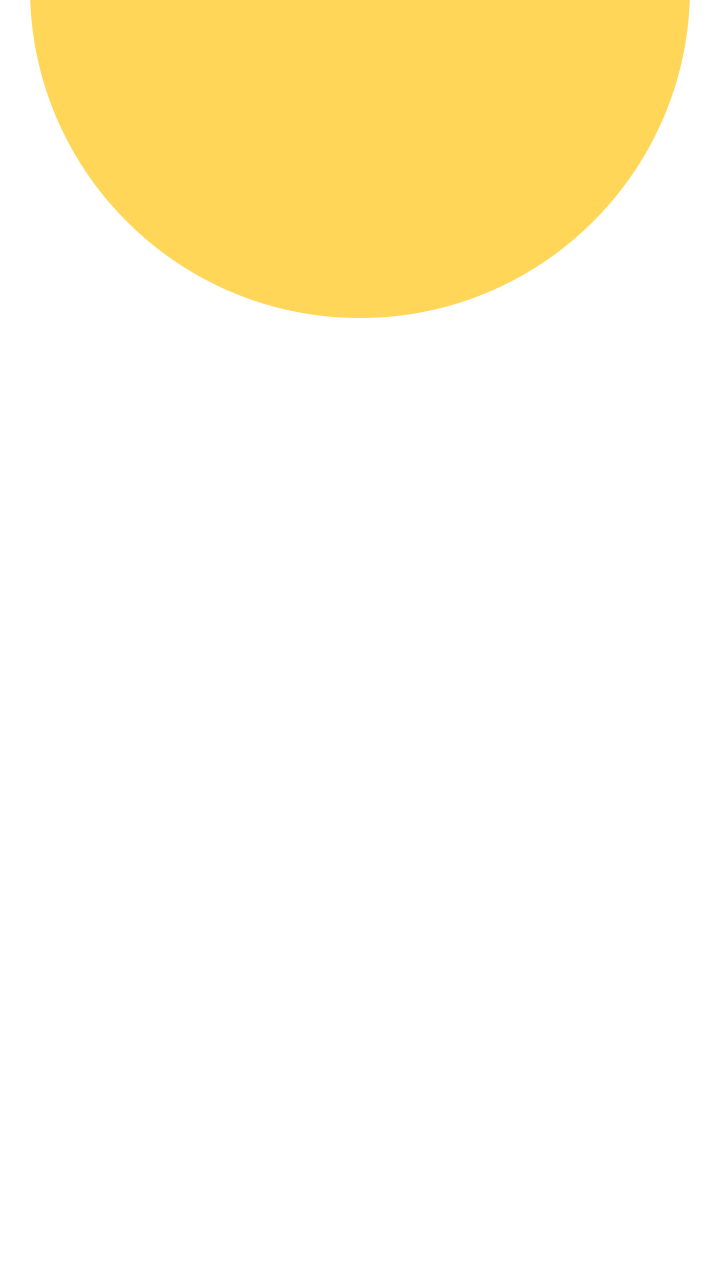
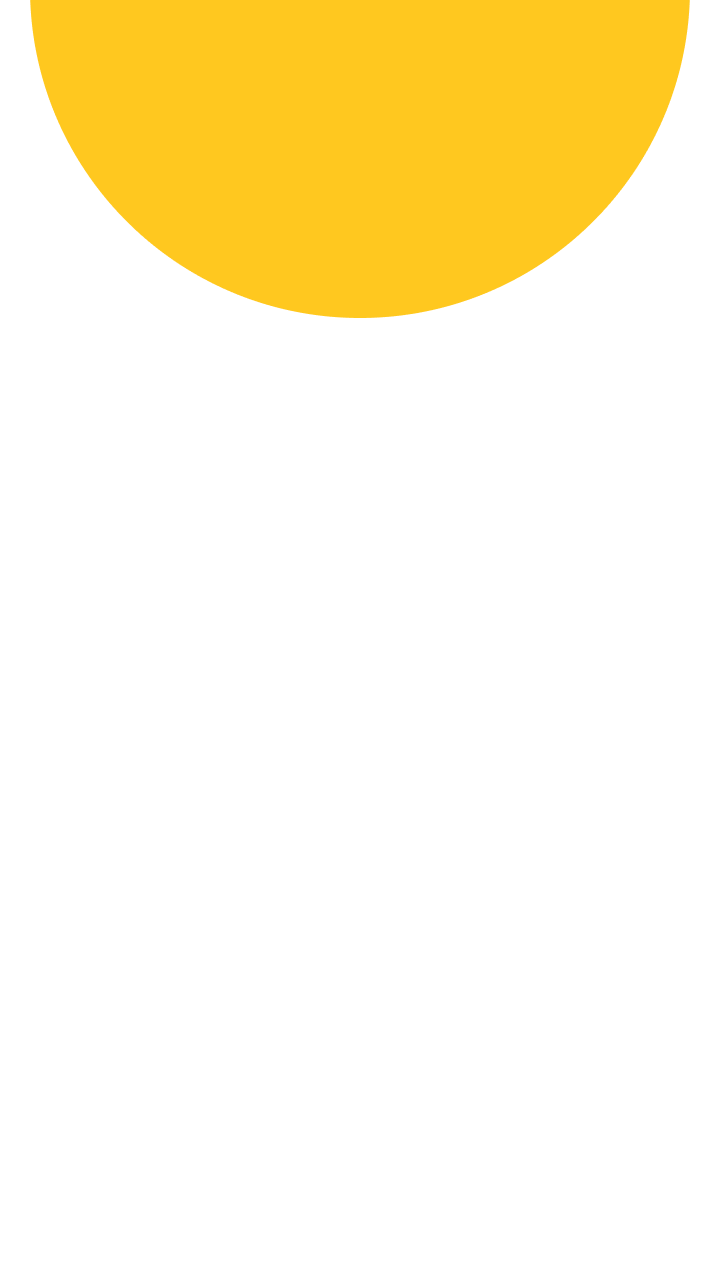
committed successfully

Changed region(s): [[0.0306, 0.0, 0.9778, 0.25]]

diff --git a/lib/loginpage.dart b/lib/loginpage.dart
@@ -12,8 +12,6 @@ class _loginpageState extends State<loginpage> {
   Widget build(BuildContext context) {
     // TODO: implement build
     return Scaffold(
-      // backgroundColor: Color(0xFFFFF6EB),
-
       body: DecoratedBox(
         decoration: BoxDecoration(
           image: DecorationImage(image: AssetImage("assets/images/img.png"),fit: BoxFit.cover),
@@ -75,7 +73,7 @@ class _loginpageState extends State<loginpage> {
                       Container(
                         width: 300,
                         decoration: BoxDecoration(
-                            color: Color(0xFFFFD658),
+                            color: Color(0xFFFFC81F),
                             borderRadius: BorderRadius.circular(30)),
                         child: TextButton(
                           onPressed: () {
@@ -101,7 +99,7 @@ class _loginpageState extends State<loginpage> {
                         child: Container(
                           width: 300,
                           decoration: BoxDecoration(
-                              color: Color(0xFFFFD658),
+                              color: Color(0xFFFFC81F),
                               borderRadius: BorderRadius.circular(30)),
                           child: TextButton(
                             onPressed: () {

diff --git a/lib/register.dart b/lib/register.dart
@@ -144,7 +144,7 @@ class _registerState extends State<register> {
                       ),
                     ),
                     Padding(padding: const EdgeInsets.all(20)),
-                    Container(width: 300,decoration: BoxDecoration(color: Colors.orange,borderRadius: BorderRadius.circular(30)),
+                    Container(width: 300,decoration: BoxDecoration(color: Color(0xFFFFC81F),borderRadius: BorderRadius.circular(30)),
                       child: TextButton(
                         onPressed: () {
                           Navigator.push(
